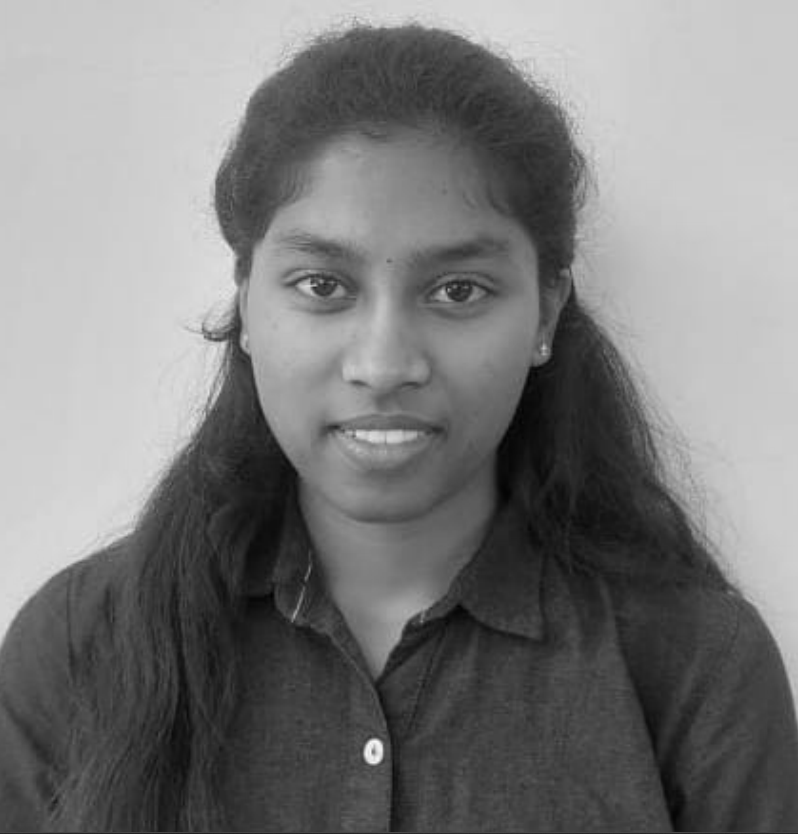
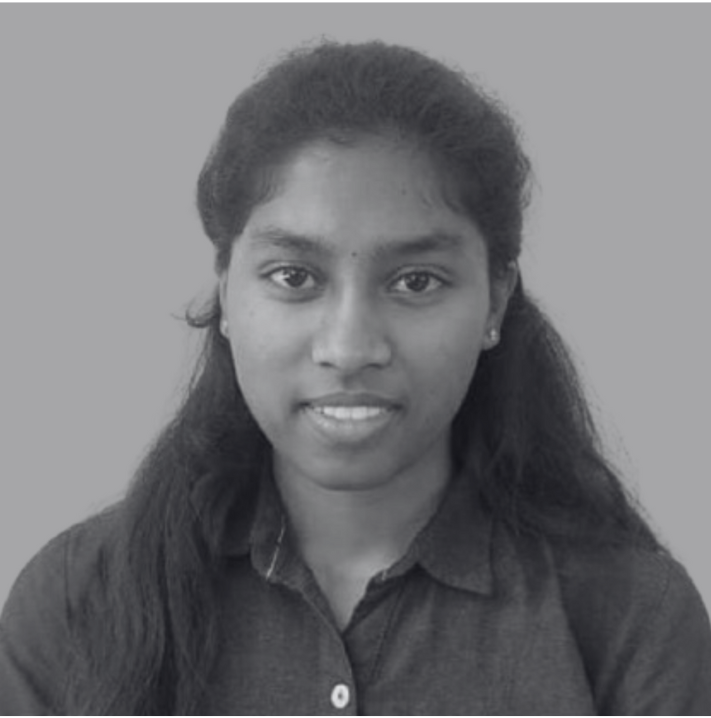
Refactor code structure for improved readability and maintainability

diff --git a/src/pages/About.jsx b/src/pages/About.jsx
@@ -86,15 +86,13 @@ const About = () => {
                   whileInView={{ opacity: 1, y: 0 }}
                   transition={{ duration: 0.7, delay: index * 0.2 }}
                   viewport={{ once: true, margin: "-50px" }}
-                  className={`relative flex items-center ${
-                    index % 2 === 0 ? "flex-row" : "flex-row-reverse"
-                  }`}
+                  className={`relative flex items-center ${index % 2 === 0 ? "flex-row" : "flex-row-reverse"
+                    }`}
                 >
                   {/* Content Card */}
                   <div
-                    className={`w-5/12 ${
-                      index % 2 === 0 ? "pr-8 text-right" : "pl-8 text-left"
-                    }`}
+                    className={`w-5/12 ${index % 2 === 0 ? "pr-8 text-right" : "pl-8 text-left"
+                      }`}
                   >
                     <motion.div
                       whileHover={{ scale: 1.05, y: -5 }}
@@ -135,7 +133,7 @@ const About = () => {
                 whileInView={{ opacity: 1, y: 0 }}
                 transition={{ duration: 0, delay: index * 0.1 }}
                 viewport={{ once: true, margin: "-50px" }}
-                className="bg-white/10 backdrop-blur-md text-white rounded-xl p-6 border border-white/20 shadow-md hover:bg-white/20 transition-all duration-300"
+                className="bg-black/10 backdrop-blur-md text-white rounded-xl p-6 border border-white/20 shadow-md hover:bg-white/20 transition-all duration-300"
               >
                 <div className="flex items-center mb-4">
                   <div className="w-4 h-4 bg-gradient-to-r from-blue-400 to-purple-500 rounded-full mr-4 border-2 border-black shadow"></div>
@@ -154,7 +152,7 @@ const About = () => {
       {/* Team Section */}
       <section className="screenwh">
         <h1
-          className="text-5xl justify-center flex !m-10 md:leading-2 lg:leading-2"
+          className="text-xl md:text-5xl justify-center flex !m-10 md:leading-2 lg:leading-2"
           style={{ fontFamily: "Telegraf, sans-serif", fontWeight: 700 }}
         >
           The Minds Behind Our Mission
@@ -162,54 +160,17 @@ const About = () => {
       </section>
       <FocusCards
         cards={teamData}
-        className="grid-cols-2 md:grid-cols-3 lg:max-w-full font-extrabold"
-        imgClassName="rounded-lg hover:scale-105 transition-transform"
+        className="grid-cols-1 md:grid-cols-4 lg:max-w-full font-extrabold"
+        imgClassName="rounded-lg hover:scale-105 transition-transform "
         renderContent={(card) => (
           <>
-            <p className="text-sm text-gray-200 !mt-1">{card.post}</p>
-            <a
-              href={card.linkedin}
-              target="_blank"
-              rel="noopener noreferrer"
-              className="text-sm text-blue-400 underline mt-1"
-            >
-              <svg
-                xmlns="http://www.w3.org/2000/svg"
-                width="24"
-                height="24"
-                viewBox="0 0 24 24"
-                fill="currentColor"
-                className="text-blue-500"
-              >
-                <path d="M19 0h-14c-2.761 0-5 2.239-5 5v14c0 2.761 2.239 5 5 5h14c2.761 0 5-2.239 5-5v-14c0-2.761-2.239-5-5-5zm-11 19h-3v-10h3v10zm-1.5-11.268c-.966 0-1.75-.79-1.75-1.765 0-.974.784-1.767 1.75-1.767s1.75.792 1.75 1.767c0 .975-.784 1.765-1.75 1.765zm13.5 11.268h-3v-5.604c0-1.338-.027-3.062-1.867-3.062-1.868 0-2.155 1.46-2.155 2.964v5.702h-3v-10h2.882v1.364h.04c.402-.762 1.382-1.564 2.845-1.564 3.04 0 3.615 2.004 3.615 4.609v5.591z" />
-              </svg>
-            </a>
-          </>
-        )}
-      />
-
-      {/* Advisors Section */}
-      <section className="screenwh">
-        <h1
-          className="text-5xl justify-center flex !m-10 md:leading-2 lg:leading-2"
-          style={{ fontFamily: "Telegraf, sans-serif", fontWeight: 700 }}
-        >
-          Mentors & Expert Support Team
-        </h1>
-      </section>
-      <FocusCards
-        cards={advisorsData}
-        className="grid-cols-2 md:grid-cols-3 lg:max-w-full font-extrabold"
-        imgClassName="rounded-lg hover:scale-105 transition-transform"
-        renderContent={(card) => (
-          <>
-            <p className="text-sm text-gray-200 !mt-1">{card.post}</p>
-            {card.linkedin && (
+            <div className="flex justify-between items-center">
+              <p className="text-xs font-normal md:text-xl text-gray-200 !mt-1">{card.post}</p>
               <a
                 href={card.linkedin}
                 target="_blank"
                 rel="noopener noreferrer"
-                className="text-sm text-blue-400 underline mt-1"
+                className="text-xs md:text-sm text-blue-400 underline mt-1"
               >
                 <svg
                   xmlns="http://www.w3.org/2000/svg"
@@ -222,7 +183,50 @@ const About = () => {
                   <path d="M19 0h-14c-2.761 0-5 2.239-5 5v14c0 2.761 2.239 5 5 5h14c2.761 0 5-2.239 5-5v-14c0-2.761-2.239-5-5-5zm-11 19h-3v-10h3v10zm-1.5-11.268c-.966 0-1.75-.79-1.75-1.765 0-.974.784-1.767 1.75-1.767s1.75.792 1.75 1.767c0 .975-.784 1.765-1.75 1.765zm13.5 11.268h-3v-5.604c0-1.338-.027-3.062-1.867-3.062-1.868 0-2.155 1.46-2.155 2.964v5.702h-3v-10h2.882v1.364h.04c.402-.762 1.382-1.564 2.845-1.564 3.04 0 3.615 2.004 3.615 4.609v5.591z" />
                 </svg>
               </a>
-            )}
+            </div>
+
+          </>
+        )}
+      />
+
+      {/* Advisors Section */}
+      <section className="screenwh">
+        <h1
+          className="text-xl md:text-5xl justify-center flex !m-10 md:leading-2 lg:leading-2"
+          style={{ fontFamily: "Telegraf, sans-serif", fontWeight: 700 }}
+        >
+          Mentors & Expert Support Team
+        </h1>
+      </section>
+      <FocusCards
+        cards={advisorsData}
+        className="grid-cols-2 lg:grid-cols-3 lg:max-w-full font-extrabold md:w-7xl md:text-xl"
+        imgClassName="rounded-lg hover:scale-105 transition-transform md:object-contain"
+        renderContent={(card) => (
+          <>
+            <div className="flex justify-between items-center">
+              <p className="text-[2vw] md:text-sm text-gray-200 !mt-1 capitalize font-normal">{card.post}</p>
+              {card.linkedin && (
+                <a
+                  href={card.linkedin}
+                  target="_blank"
+                  rel="noopener noreferrer"
+                  className="text-sm text-blue-400 underline mt-1 w-3 md:w-6 "
+                >
+                  <svg
+                    xmlns="http://www.w3.org/2000/svg"
+                    // width="14"
+                    // height="24"
+                    viewBox="0 0 24 24"
+                    fill="currentColor"
+                    className="text-blue-500"
+                  >
+                    <path d="M19 0h-14c-2.761 0-5 2.239-5 5v14c0 2.761 2.239 5 5 5h14c2.761 0 5-2.239 5-5v-14c0-2.761-2.239-5-5-5zm-11 19h-3v-10h3v10zm-1.5-11.268c-.966 0-1.75-.79-1.75-1.765 0-.974.784-1.767 1.75-1.767s1.75.792 1.75 1.767c0 .975-.784 1.765-1.75 1.765zm13.5 11.268h-3v-5.604c0-1.338-.027-3.062-1.867-3.062-1.868 0-2.155 1.46-2.155 2.964v5.702h-3v-10h2.882v1.364h.04c.402-.762 1.382-1.564 2.845-1.564 3.04 0 3.615 2.004 3.615 4.609v5.591z" />
+                  </svg>
+                </a>
+              )}
+            </div>
+
           </>
         )}
       />

diff --git a/src/data/teamData.js b/src/data/teamData.js
@@ -1,27 +1,30 @@
 import image from "../assets/Team/k.jpg";
 import image1 from "../assets/Team/n.png";
-import image2 from "../assets/Team/s.png";
-import image3 from "../assets/Team/i.jpeg";
+import image2 from "../assets/Team/Ri.png";
+import image3 from "../assets/Team/Ir.png";
 import image4 from "../assets/Team/m.jpeg";
 import image5 from "../assets/Team/p.jpeg";
 import image6 from "../assets/Team/g.jpeg";
 import image7 from "@/assets/Team/bh.jpg";
 import image8 from "@/assets/Team/j.png";
 import image9 from "@/assets/Team/gi.jpg";
-import image10 from "@/assets/Team/sa.jpeg";
+import image10 from "@/assets/Team/sa.png";
 import image11 from "@/assets/Team/g.png"
+import image12 from "@/assets/Team/d.png"
+import image13 from "@/assets/Team/Ak.jpeg"
+
 const teamData = [
-  {
-    title: "Mohammad Aman",
-    src: image1,
-    post: " Director  R&D & Lead Operations",
-    linkedin: "https://www.linkedin.com/in/mohammad-aman-993421326",
-  },
   {
     title: "Mohammed Kabeer",
     src: image,
     post: "Founder & CEO",
     linkedin: "https://www.linkedin.com/in/mohammed-kabeer",
+  },
+  {
+    title: "Mohammad Aman",
+    src: image1,
+    post: "Director - R&D and Operations",
+    linkedin: "https://www.linkedin.com/in/mohammad-aman-993421326",
   },
   {
     title: "Riyaz Ur Rehman",
@@ -44,11 +47,23 @@ const teamData = [
     linkedin: "https://www.linkedin.com/in/sathwik-gandoori-3838aa294/",
   },
   {
-    title:"Gowthami M",
-    src:image11,
-    post:" Lead – Bio & Chemistry",
+    title: "Gowthami M",
+    src: image11,
+    post: "Lead – Bio & Chemistry",
     linkedin: "https://www.linkedin.com/in/gowthami-m-148bb832a/",
   },
+  {
+    title: "Dhwani patel",
+    src: image12,
+    post: "Project Strategy Associate",
+    linkedin: "https://www.linkedin.com/in/dhwani-patel-2875081b5",
+  },
+  {
+    title: "V Akash",
+    src: image13,
+    post: "Dept. Head & Software Lead",
+    linkedin: "https://www.linkedin.com/in/akash-v-shetty/",
+  }
 ];
 // export default teamData;
 
@@ -66,18 +81,18 @@ const advisorsData = [
     post: "Engineering Advisor",
   },
   {
-    title: "Dr. N. BAKTHAVATSALAM",
+    title: "Dr. N. Bakthavatsalam",
     src: image7,
     post: "Entomology Advisor",
   },
   {
     title: "Malathi Ramakrishna",
     src: image4,
-    post: "Innovation & Entrepreneurship Advisor ",
+    post: "Entrepreneurship Advisor ",
     linkedin: "https://www.linkedin.com/in/malathi-ramakrishna-12441541",
   },
   {
-    title: "DR. JAYARAJ VIJAYA KUMARAN",
+    title: "Dr. Jayaraj Vijaya Kumaran",
     src: image8,
     post: "Scientific advisor",
     linkedin: "https://www.linkedin.com/in/jayaraj-vijaya-kumaran-a55a8128/",

diff --git a/src/components/Mission.jsx b/src/components/Mission.jsx
@@ -11,8 +11,8 @@ const sections = [
   {
     title: "Who We Are",
     description: `
-      At CropNow, we believe that agriculture should be smarter, more efficient, and sustainable for generations to come.<br/><br/>
-      We’re not just another agri-tech company — we’re a team passionate about empowering farmers with the right tools.<br/><br/>
+      At CropNow, we believe that agriculture should be smarter, more efficient, and sustainable for generations to come.
+      We’re not just another agri-tech company we’re a team passionate about empowering farmers with the right tools. 
       Our mission is simple: to help farmers grow more with less, using technology that enhances productivity, conserves resources, and supports eco-friendly practices.
     `,
     image: image2
@@ -29,9 +29,9 @@ const sections = [
   },
   {
     title: "Powered by Tradition, Driven by Technology",
-    description: `At CropNow, our innovations are built on generations of farming wisdom and shaped by modern technology.<br/><br/>
-    Though our journey began in 2023, we stand on the strong foundation of collaboration with traditional farmers, local growers, agri-scientists, and engineers.<br/><br/>
-    Every solution — from smart soil monitoring to autonomous crop surveillance — is inspired by field knowledge and enhanced by cutting-edge agri-tech. CropNow is where tradition meets tomorrow.`,
+    description: `At CropNow, our innovations are built on generations of farming wisdom and shaped by modern technology.
+    Though our journey began in 2023, we stand on the strong foundation of collaboration with traditional farmers, local growers, agri-scientists, and engineers.
+    Every solution from smart soil monitoring to autonomous crop surveillance  is inspired by field knowledge and enhanced by cutting-edge agri-tech. CropNow is where tradition meets tomorrow.`,
     image: image4
   }
 ];

diff --git a/src/pages/Contact.jsx b/src/pages/Contact.jsx
@@ -120,17 +120,17 @@ const Contact = () => {
 
           <div className="!space-y-6">
             <div>
-              <h3 className="text-lg font-semibold text-gray-100">📍 Location</h3>
-              <p className="text-gray-300">REVA Nest, Rukmini Knowledge Park, Kattigenahalli, Bangalore - 560064</p>
+              <h3 className="text-lg font-semibold text-gray-100">Location</h3>
+              <p className="text-gray-300">Rukmini Knowledge Park, Kattigenahalli, Bangalore - 560064</p>
             </div>
 
             <div>
-              <h3 className="text-lg font-semibold text-gray-100">📧 Email</h3>
+              <h3 className="text-lg font-semibold text-gray-100">Email</h3>
               <p className="text-gray-300">cropnow.contact@gmail.com</p>
             </div>
 
             <div>
-              <h3 className="text-lg font-semibold text-gray-100">📞 Phone</h3>
+              <h3 className="text-lg font-semibold text-gray-100">Phone</h3>
               <p className="text-gray-300">+91 9141749525</p>
             </div>
 

diff --git a/src/components/ui/focus-cards.jsx b/src/components/ui/focus-cards.jsx
@@ -8,7 +8,7 @@ export const Card = React.memo(({
     hovered,
     setHovered,
     imgClassName,
-    renderContent ,
+    renderContent,
     onClick
 }) => (
     <div
@@ -29,12 +29,13 @@ export const Card = React.memo(({
             )}
         />
         <div
-            className={cn(
+           className={cn(
                 "absolute inset-0 bg-black/50 flex flex-col justify-end py-8 px-4 transition-opacity duration-300",
-                hovered === index ? "opacity-100" : "opacity-0"
+                "opacity-100 md:opacity-0",
+                hovered === index && "md:opacity-100"
             )}
         >
-            <div className="text-xl font-extrabold md:text-2xl bg-clip-text text-transparent bg-gradient-to-b from-neutral-50 to-neutral-200">
+            <div className="capitalize text-xs font-semibold md:font-extrabold md:text-2xl bg-clip-text text-transparent bg-gradient-to-b from-neutral-50 to-neutral-200">
                 {card.title}
             </div>
             {renderContent && renderContent(card)}

diff --git a/src/components/Footer.jsx b/src/components/Footer.jsx
@@ -22,7 +22,7 @@ const Footer = () => {
 
           <p className="flex items-start gap-2 !mb-3">
             <FontAwesomeIcon icon={faMapMarkerAlt} className="w-5 h-5 !mt-1" />
-            REVA Nest, Rukmini Knowledge Park, Kattigenahalli, Bangalore - 560064
+            Rukmini Knowledge Park, Kattigenahalli, Bangalore - 560064
           </p>
 
           <p className="flex items-start gap-2 !mb-3">
